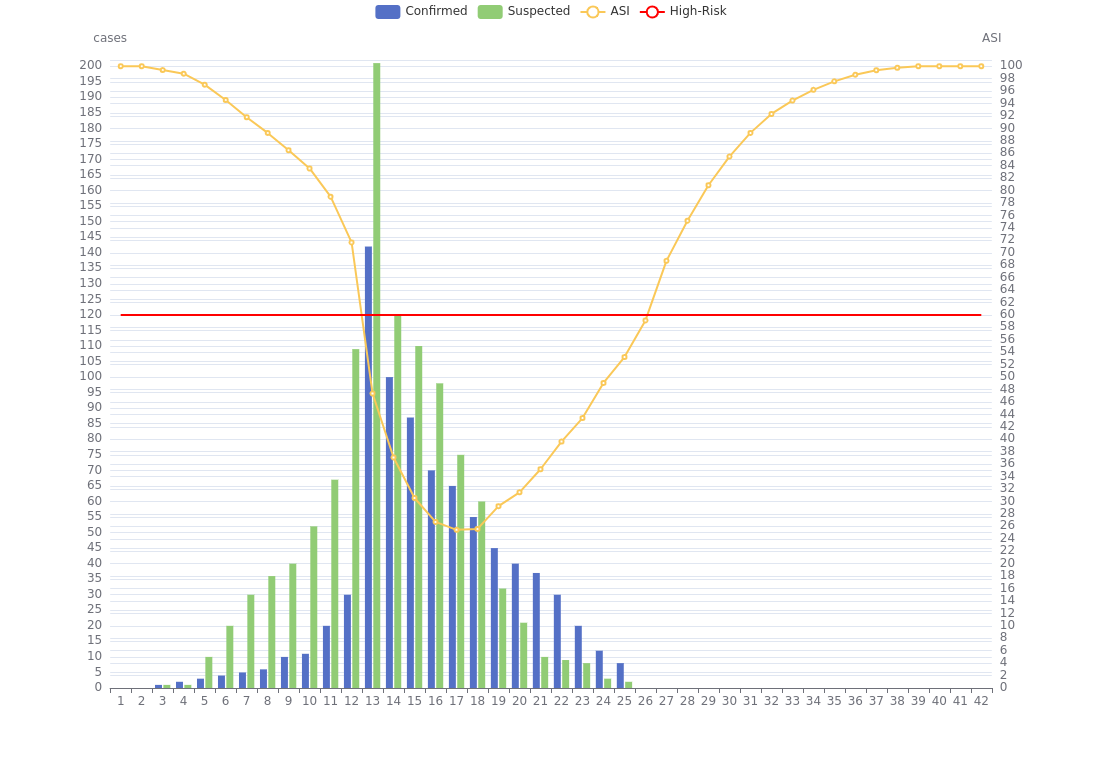
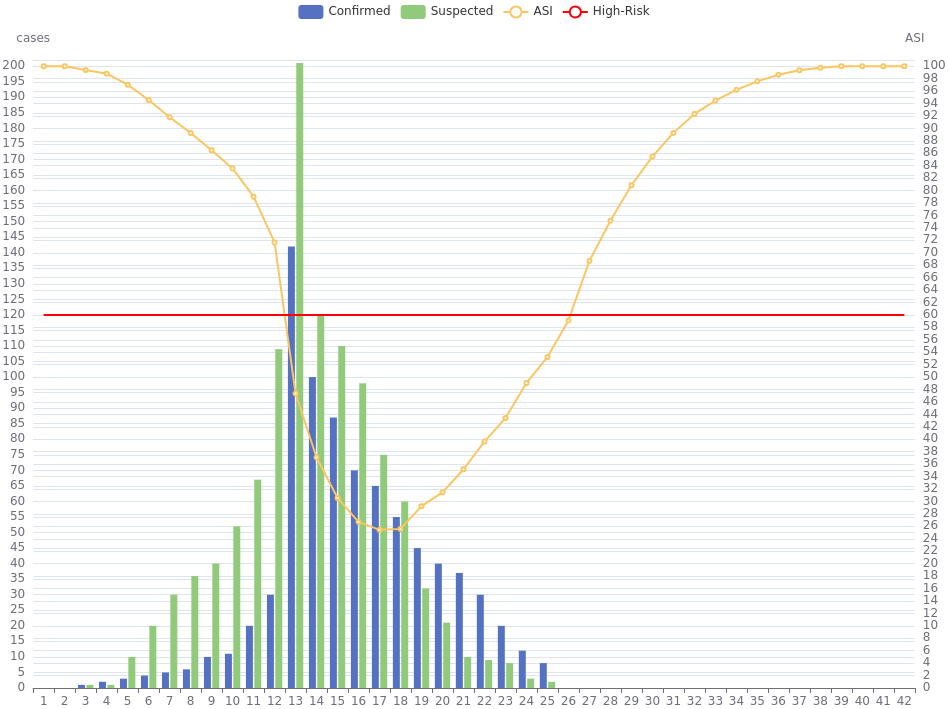
finish experiment

diff --git a/geohash.tex b/geohash.tex
@@ -262,7 +262,7 @@ Our first step is to divide the earth into blocks or grids. \textbf{GeoHash} tec
 	\item \textbf{GeoHash} encodes a geographic location (longitude and latitude) into a string of binary codes.
 	\item Through the incremental operation of encoded binary code, these grids are chained to a Z-order curve as Figure 8.
 \end{itemize}
-How does Geohash achieve the above operations?
+How does \textbf{GeoHash} achieve the above operations?
 \\
 We know that the geographical range of longitude is from -180\degree\ to 180\degree\ and latitude is from -90\degree\ to 90\degree\ \cite{crossley1999guide}.
 We can divide the longitude into two intervals: [-180\degree, 0\degree], [0\degree, 180\degree].
@@ -474,7 +474,7 @@ The ``14 days'' is for the example of COVID-19 because studies have shown that t
 The sample of quantitative analysis described in this paper is to obtain a value \textbf{ASI} (Area Safety Index).
 \textbf{ASI} is one of the most important indexes in our study, which reflects the safety degree of a block.
 The safety degree can be calculated to a meaningful and definite quantity with \textbf{ASI}.
-The following is an introduction about calculating \textbf{ASI} in our \textbf{GIS}.
+The following is an introduction about calculating \textbf{ASI} of a block.
 The following method is considered as our ``Basic ASI Model''
 \begin{equation}
 	RI_n=\sum_{i=1}^n\left(\frac{R_d^iP_d}{R_o^i+R_w^i+R_d^i}+\frac{R_w^iP_w}{R_o^i+R_w^i+R_d^i}\right)P_i
@@ -486,37 +486,87 @@ In Formula (9), $RI$ (Risk Index) represents the past $n$ days risk index of a b
 $R_d$, $R_w$ and $R_o$ are respectively the number of confirmed cases, suspected cases, and healthy cases.
 So Formula (9) actually is a risk assessment by calculating the density of infected and suspected cases in a block.
 Suspected cases refer to those who have symptoms of infection, or have been in contact with confirmed cases, or have visited other high-risk blocks.
-We define the blocks with \textbf{ASI} less than 60 as high-risk blocks, and the standard high-risk value can be customized in our system.
-Variable $i$ counts the days before today.
-For example, ``$i=2$'' indicates yesterday, ``$i=3$'' indicates two days ago, until ``$i=n$'' is $n-1$ days ago, the total is $n$ days.
+We define the blocks with \textbf{ASI} less than 60 as high-risk blocks, and the standard of high-risk can be customized in the system.
+Variable $i$ counts the backtracking days.
+For example, ``$i=n$'' indicates today, ``$i=n-1$'' indicates yesterday, until ``$i=1$'' is the first backtracking day, the total is $n$ days.
 $P_d$ is the weight of infected cases and $P_w$ is the weight of suspected cases.
 $P_i$ is the weight of time influence, the unit of time is ``day''.
-Normally, the larger the day $i$ is, the lower the $P_i$ is.
+Normally, the larger the day $i$ is, the higher the $P_i$ is.
 \\
 Constants $P_i$, $P_d$, $P_w$ need to be fitted according to the population in a block.
 The calculation of $P_i$ is in Formula (11).
 \begin{equation}
-	P_i=\frac{100}{(n+1)n/2}(n-i+1)
+	P_i=\frac{100i}{(n+1)n/2}
 \end{equation}
 \\
-Similarly, Formula (11) is not fixed too.
-The time weight $P_i$ decreases linearly with the increase of day.
-Of course, the condition is $n$ is a definite constant.
-It is used in our experiment, and we consider it is suitable to observe a small group and a small area.
+The time weight $P_i$ increase linearly with the increase of day $i$.
+$n$ is a constant and it is the number of backtracking days in ASI calculation.
 \\
+\section{Experiments}
+Two groups of experiments are carried out on the block with large population and the block with small population.
+The collective conditions of the two experiments for calculating ASI are:
+\begin{enumerate}
+	\item Simulate confirmed cases, suspected cases within 42 days.
+	\item The backtracking time is 14 days, so $n=14$.
+	\item If the backtrackable time is less than 14 days, set $n=i$.
+	\item The total population in a block fluctuates up and down within a range.
+	\item Upon ASI decreases to 60, the block will trigger lockdown, the population stops flowing in or out.
+\end{enumerate}
+We use \textbf{Apache Echart}\footnote{https://echarts.apache.org/examples/en/editor.html?c=mix-line-bar} to visualize the experimental results.
+In Figure 12, the red line is the cordon of lockdown which also means under it is a high-risk period.
+When \textbf{ASI} touches the red line, we think it is necessary to take lockdown or other effective measures.
+The yellow line represents the trend of \textbf{ASI}.
+The blue bar indicates the number of confirmed cases and the green bar indicates the number of suspected cases.
+Both of the confirmed and suspected cases increase from day 1, and decrease after reaching the peak until 0.
+
+\subsection{Small Population}
+For small population block, we assume the following conditions:
+\begin{enumerate}
+	\item The population range is $[500,1000]$ in a block.
+	\item $P_d=45$ and $P_w=15$.
+\end{enumerate}
+The experimental results of small population block have been plotted as shown in Figure 12, ``Small population''.
+When the confirmed cases and suspected cases increaes, \textbf{ASI} decreases.
+\textbf{ASI} decreases to $46.47$ on day 10 and drops to $0$ on day 15.
+Until day 31, \textbf{ASI} returns to above 60.
+So we can set the block in high-risk from day 10 to 31.
+
+\subsection{Large Population}
+For large population block, we assume the following conditions:
+\begin{enumerate}
+	\item The population range is $[960000,1000000]$ in a block.
+	\item $P_d=8000$ and $P_w=4000$.
+\end{enumerate}
+The experimental results of large population block have been plotted as shown in Figure 12, ``Large population''.
+From the ``Large population'' chart, \textbf{ASI} decreases to $47.35$ on day 13 and goes back to $68$ on day 27.
+Then we set the block in high-risk from day 13 to 27.
+
+\begin{figure*}[hptb]
+	\centering{
+		\subfigure[Small population]{
+			\includegraphics[width=16cm,height=10.5cm]{echarts-sm.png}
+		}
+		\subfigure[Large population]{
+			\includegraphics[width=16cm,height=10.5cm]{echarts-lg.png}
+		}
+		\caption{Experimental results charts}
+	}
+\end{figure*}
+\newpage
+
 \section{Conclusions}
+The conclusion is
 \section{Future Work}
-We can do other data analysis on a block to get other results to enhance the epidemic control ability.
-Such as the medical level of a block, and even predict the possibility value of an epidemic outbreak in an area.
-These are the directions that can be studied based on \textbf{GeoHash} blocks, and we are also working on these studies, but in this paper they are not introduced.
+In addition to \textbf{ASI}, we can also conduct other types of data analysis based on \textbf{GeoHash} blocks, and get more useful results to help us carry out epidemic prevention and control.
+Such as the medical level of a block, and even predict the possibility value of an epidemic outbreak in a block.
+These are the directions that can be studied based on \textbf{GeoHash} blocks, and we are working on these studies.
 \\
-Algorithms will be improved following the new progress of medical research to handle the pandemic.
+Algorithms will be improved by following the new progress of medical research to handle the changing pandemic.
 We need to take more interdisciplinary cooperation, especially in infectious disease medicine and bioinformatics.
-Medical professionals can help us to find more suitable risk assessment models and algorithms.
+Medical professionals can help us to find more suitable risk assessment models and algorithms on \textbf{GeoHash}.
 \\
-Considering the similarity of data structure, we are trying to use blockchain technology to decentralize the storage and calculation of data.
-Other international research teams have also carried out research on blockchain using for infectious diseases and health.\cite{nguyen2020blockchain}\cite{CryptocurrencyNewUse2020Coronavirus}
-The contents include: \textbf{GeoHash} block information, user GeoHash block chain, weight parameters, virus information, vaccination records,Immunization record, etc.
+Considering the similarity of data structure, we are trying to use blockchain technology to decentralize the storage and calculation of epidemic data.
+We note that other international research teams have also carried out research on blockchain using for health care domain.\cite{nguyen2020blockchain}\cite{CryptocurrencyNewUse2020Coronavirus}
 Blockchain technology can help us reduce the pressure of central storage, protect the privacy of users through anonymity\cite{nakamoto2019bitcoin}, and ensure that the data can not be tampered.\cite{armstrong2016move}
 \bibliographystyle{unsrt}
 \bibliography{refs}

diff --git a/node/README.md b/node/README.md
@@ -18,3 +18,7 @@ The simulation data for confirmed cases and suspended cases in ASI is from data.
 
 -   w: warning, suspended
 -   d: danger, confirmed
+
+## Data Table
+
+Refer to arrarys in echart-lg.js, echart-sm.js
